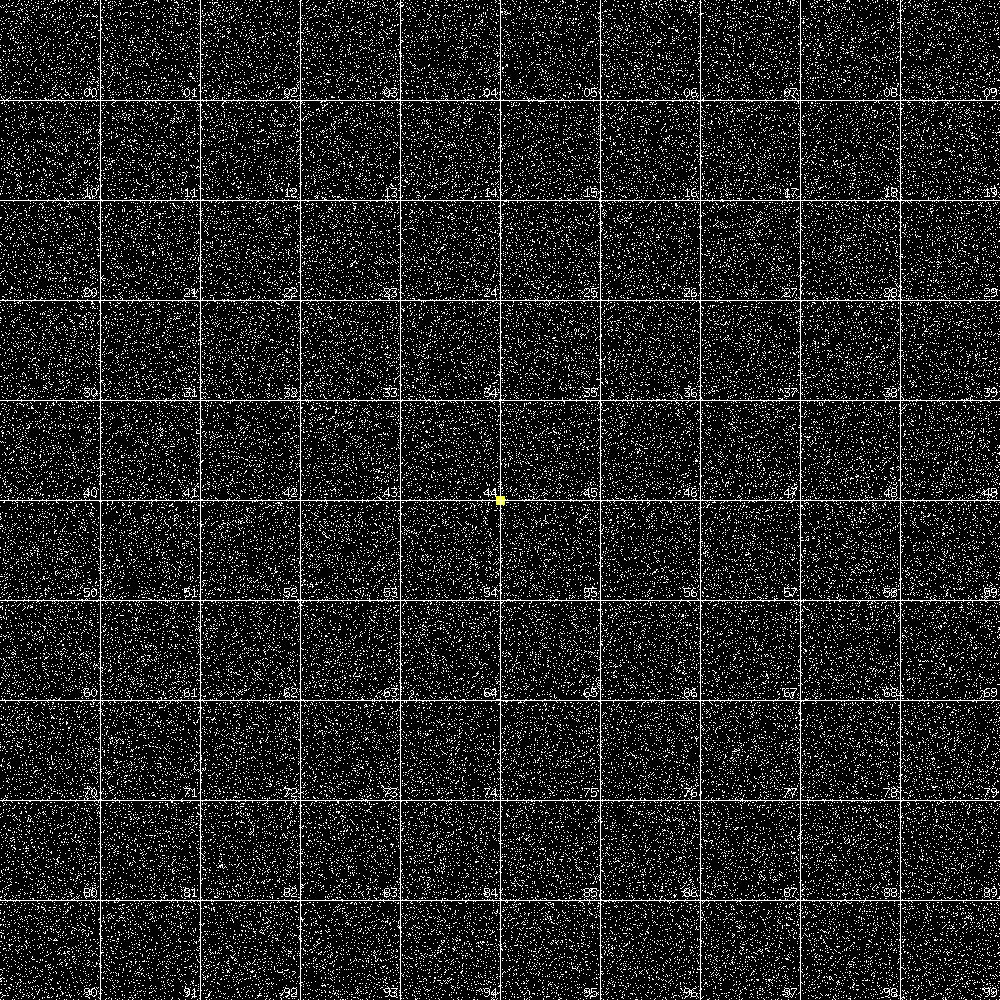
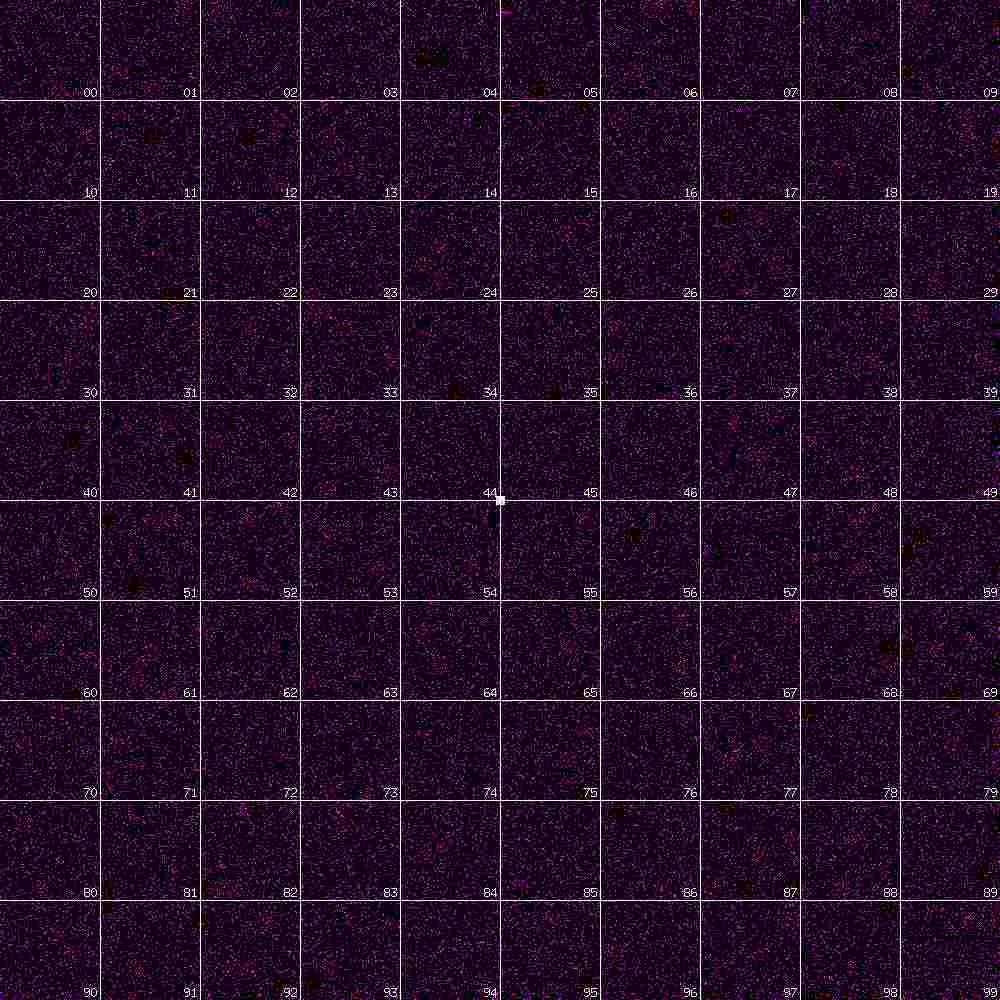
optimization

diff --git a/generator/generator.go b/generator/generator.go
@@ -19,6 +19,7 @@ const (
 	defaultGridLineColor        = "#fff"
 	defaultContinentNumberColor = "#fff"
 	defaultMapSize              = 1000
+	defaultQuality              = 80
 )
 
 type Marker struct {
@@ -39,6 +40,7 @@ type Config struct {
 	Scale                float32
 	CenterX              int
 	CenterY              int
+	Quality              int
 }
 
 func (cfg *Config) init() {
@@ -53,6 +55,9 @@ func (cfg *Config) init() {
 	}
 	if cfg.MapSize <= 0 {
 		cfg.MapSize = defaultMapSize
+	}
+	if cfg.Quality <= 0 {
+		cfg.Quality = defaultQuality
 	}
 	if cfg.Scale < 1 {
 		cfg.Scale = 1
@@ -78,15 +83,17 @@ func Generate(cfg Config) error {
 	imgHalfHeight := imgHalfWidth
 	g := new(errgroup.Group)
 
-	backgroundColor, err := parseHexColorFast(cfg.BackgroundColor)
-	if err != nil {
-		return errors.Wrap(err, "map-generator")
-	}
+	if cfg.BackgroundColor != defaultBackgroundColor {
+		backgroundColor, err := parseHexColorFast(cfg.BackgroundColor)
+		if err != nil {
+			return errors.Wrap(err, "map-generator")
+		}
 
-	// Background.
-	for y := 0; y < cfg.MapSize; y++ {
-		for x := 0; x < cfg.MapSize; x++ {
-			img.Set(x, y, backgroundColor)
+		// Background.
+		for y := 0; y < cfg.MapSize; y++ {
+			for x := 0; x < cfg.MapSize; x++ {
+				img.Set(x, y, backgroundColor)
+			}
 		}
 	}
 
@@ -129,11 +136,7 @@ func Generate(cfg Config) error {
 		for y := mapSizeDividedBy10; y < cfg.MapSize; y += mapSizeDividedBy10 {
 			for x := 0; x < cfg.MapSize; x++ {
 				img.Set(x, y, gridLineColor)
-			}
-		}
-		for x := mapSizeDividedBy10; x < cfg.MapSize; x += mapSizeDividedBy10 {
-			for y := 0; y < cfg.MapSize; y++ {
-				img.Set(x, y, gridLineColor)
+				img.Set(y, x, gridLineColor)
 			}
 		}
 	}
@@ -170,7 +173,7 @@ func Generate(cfg Config) error {
 	}, draw.Src)
 
 	if err := jpeg.Encode(cfg.Destination, centered, &jpeg.Options{
-		Quality: 80,
+		Quality: cfg.Quality,
 	}); err != nil {
 		return errors.Wrap(err, "map-generator")
 	}

diff --git a/example/main.go b/example/main.go
@@ -24,12 +24,12 @@ func main() {
 		ContinentNumbers: true,
 		Markers: []*generator.Marker{
 			&generator.Marker{
-				Color:    "#fff",
+				Color:    "#f0f",
 				Villages: villages,
 				Larger:   false,
 			},
 			&generator.Marker{
-				Color: "#ff0",
+				Color: "#fff",
 				Villages: []*models.Village{
 					&models.Village{
 						X: 500,
